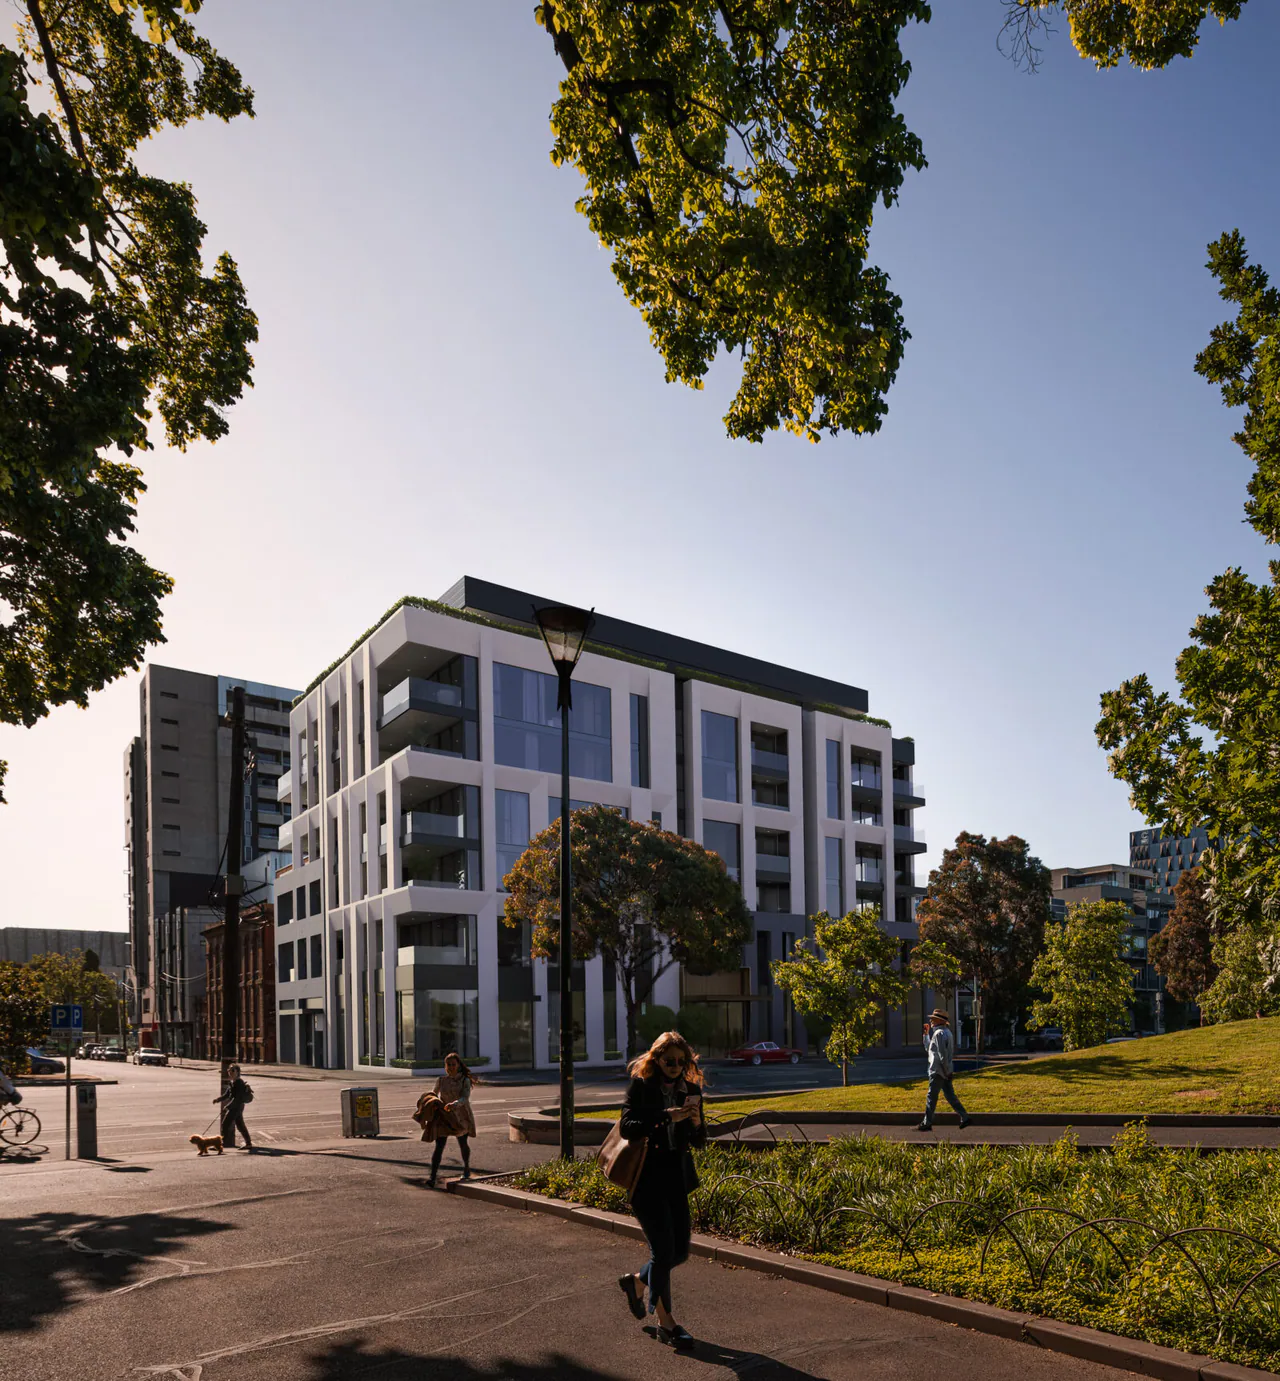
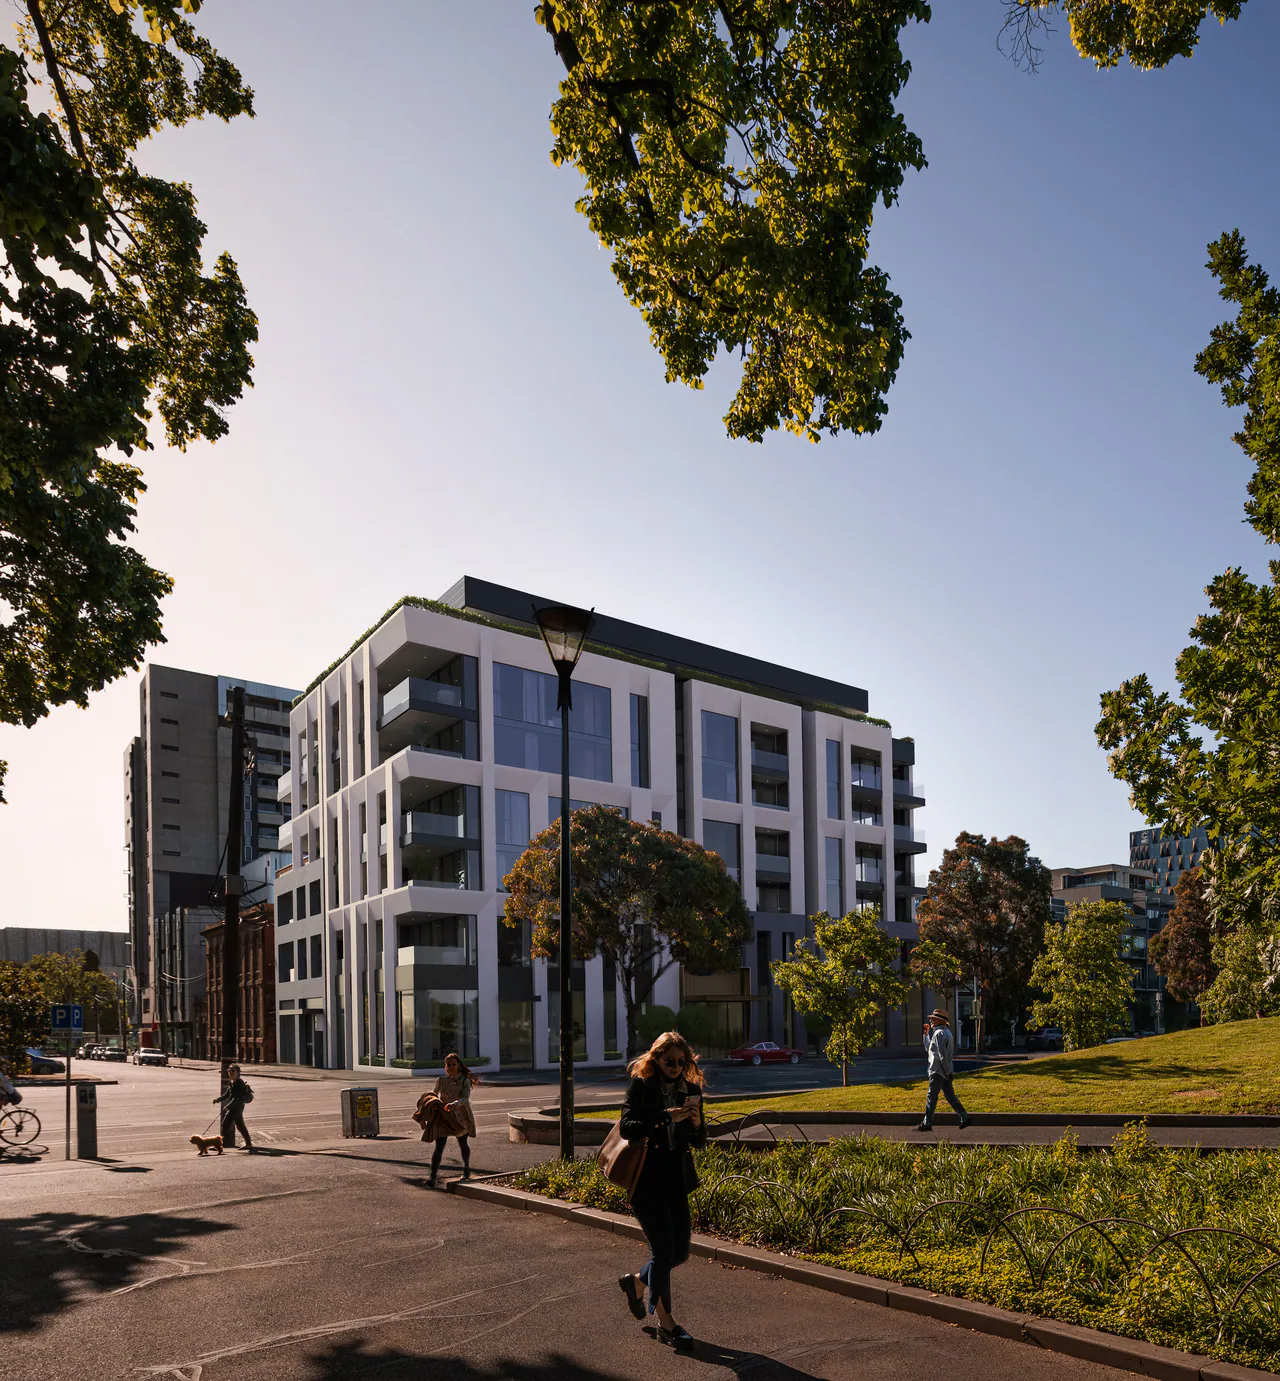
Project pages for all six projects, in The London's layout
La Storia, MVRC – Thomas Street, Sea & Sky, The Lansell and The Righi now open with the
full-screen hero (sliding name, figure boxes) and "About the project" (tall photo, title and
copy, small photo), then the 3D preview. Figures and copy are from each project's published
facts (Sea & Sky's from Camillo's project page); no new numbers.

Photos: full-size originals from camillo.com.au. A project can set `hero.image` when its card
photo isn't big or wide enough (MVRC, The Lansell, The Righi); smaller copies already used in
the gallery and models are replaced by their originals (same optimised names, sharper).

diff --git a/src/data/projects/sea-sky.js b/src/data/projects/sea-sky.js
@@ -17,8 +17,30 @@ export default {
     'A boutique collection capturing the place where the sea meets the sky. A layered façade plays with light and shadow, framing oversized balconies and bay views.',
   materials: 'Italian kitchens, European appliances, stone surfaces.',
   // hero / card photo from project-assets/sea-sky/ (optimised by `npm run images`)
-  image: { file: 'EXT01_Exterior-1600x1702.jpg', position: '50% 42%' },
+  image: { file: 'EXT01_Exterior.jpg', position: '50% 42%' },
   camera: { zoom: 17.1, pitch: 62, bearing: 60 },
+  // the project page (as The London): figures over the hero photo, then "About the project"
+  // (from Camillo's project page)
+  hero: {
+    stats: [
+      { value: '6 levels', label: 'Residential · complete 2023', text: 'A boutique collection in Sandringham Village, at 212 Bay Road.' },
+      { value: '63 + 1', label: 'Apartments & a penthouse', text: 'Two- and three-bedroom homes with generous floorplans.' },
+      { value: 'Snaidero', label: 'Italian kitchens', text: 'With European Miele appliances, stone surfaces and bespoke joinery.' },
+      { value: 'Bay views', label: 'Port Phillip Bay', text: 'Panoramic views of the bay and the glimmer of the city lights.' },
+      { value: 'Artist-led', label: 'Antoinette Ferwerda', text: 'A private art commission shaped the design.' },
+    ],
+  },
+  about: {
+    title: 'Sea & Sky',
+    text: [
+      'Nestled in Sandringham Village, Sea & Sky is a boutique collection of apartments across six levels, an artist-inspired, architectural expression of Sandringham’s coastal character. Bright, spacious interiors extend to large terrace balconies, gardens and private retreats.',
+      'Shaped by a private commission from Australian artist Antoinette Ferwerda, its complex, layered façade lets sunlight and shadow play across its recesses and extrusions through the day. Camillo delivered 63 house-sized dwellings and a luxury penthouse, with Snaidero kitchens and Miele appliances.',
+    ],
+    images: [
+      { file: 'EXT02_Garden.jpg', alt: 'A winding path through the planted courtyard garden at Sea & Sky', position: '50% 50%' },
+      { file: 'SeaSky-lobby.jpg', alt: 'The Sea & Sky lobby, with an artwork at the end of the hall', position: '50% 50%' },
+    ],
+  },
   // published numbers the 3D model must reproduce (checked in dev)
   publishedFacts: { levels: 6, units: 64 },
 };

diff --git a/src/data/gallery.js b/src/data/gallery.js
@@ -9,24 +9,24 @@ export const gallery = [
   { project: 'the-london', file: 'TheLondon.jpeg', alt: 'The London from above, with the Melbourne CBD skyline behind' },
   {
     project: 'la-storia',
-    file: 'DUGA11024_La-Storia_E02_Hero-Cardigan-St_Crop-1600x1726.jpg',
+    file: 'DUGA11024_La-Storia_E02_Hero-Cardigan-St_Crop.jpg',
     alt: 'La Storia seen across the park from Cardigan Street',
   },
   {
     project: 'mvrc-thomas-street',
-    file: '181219_EXTERIOR_PARK-Copy-Large-1200x800.jpeg',
+    file: '181219_EXTERIOR_PARK-Copy-Large.jpeg',
     alt: 'Brick and white-framed townhouses behind a landscaped front garden',
   },
-  { project: 'sea-sky', file: 'EXT02_Garden-800x993.jpg', alt: 'A winding path through the planted courtyard garden at Sea & Sky' },
-  { project: 'la-storia', file: 'IMG_10350_038-1200x800.jpg', alt: 'La Storia at dusk, its windows lit above the street', footer: true },
+  { project: 'sea-sky', file: 'EXT02_Garden.jpg', alt: 'A winding path through the planted courtyard garden at Sea & Sky' },
+  { project: 'la-storia', file: 'IMG_10350_038.jpg', alt: 'La Storia at dusk, its windows lit above the street', footer: true },
   { project: 'the-lansell', file: 'S010-1-Render-Hero-Street.jpeg', alt: 'The Lansell: a glass-fronted upper level among mature trees' },
   {
     project: 'mvrc-thomas-street',
-    file: '191014_B_V03_SOUTHERN_FACADE-Large-800x1000.jpeg',
+    file: '191014_B_V03_SOUTHERN_FACADE-Large.jpeg',
     alt: 'Apartment balconies rising above the gardens on the southern façade',
   },
   { project: 'the-righi', file: '05-Bedroom-Windows.jpg', alt: 'The Righi’s pale stone façade with deep-set windows' },
-  { project: 'sea-sky', file: 'EXT01_Exterior-1600x1702.jpg', alt: 'Sea & Sky’s apartments framing a flowering courtyard' },
+  { project: 'sea-sky', file: 'EXT01_Exterior.jpg', alt: 'Sea & Sky’s apartments framing a flowering courtyard' },
   {
     project: 'mvrc-thomas-street',
     file: '191023_C_V01_HERO-Large.jpeg',

diff --git a/src/data/projects/la-storia.js b/src/data/projects/la-storia.js
@@ -19,4 +19,29 @@ export default {
   // hero / card photo from project-assets/la-storia/ (optimised by `npm run images`)
   image: { file: 'IMG_10058_2_040.jpg', position: '50% 45%' },
   camera: { zoom: 17.3, pitch: 62, bearing: 25 },
+  // the project page (as The London): figures over the hero photo, then "About the project"
+  hero: {
+    stats: [
+      { value: '21 homes', label: 'Three-bedroom residences', text: 'Generous family homes at 88 Pelham Street, Carlton.' },
+      { value: 'From 46', label: 'Apartments, pared back', text: 'The plan was pared back from 46 apartments to 21 homes.' },
+      { value: 'Scarpa', label: 'Design inspiration', text: 'The modernism of Carlo Scarpa, in marble, concrete and handcrafted detail.' },
+      { value: 'Topped out', label: 'Residential', text: 'A monument to Carlton’s Italian heritage.' },
+      { value: 'Solar', label: 'Energy-efficient', text: 'Solar and energy-efficient systems built in.' },
+    ],
+  },
+  about: {
+    title: 'La Storia',
+    text: [
+      'A monument to Carlton’s Italian heritage. The plan was pared back from 46 apartments to 21 generous family homes, flooded with light and air.',
+      'Inspired by the modernism of Carlo Scarpa, the homes are made of marble, concrete and handcrafted joinery, with Smeg, Sub-Zero and Astra Walker appointments and solar, energy-efficient systems.',
+    ],
+    images: [
+      {
+        file: 'DUGA11024_La-Storia_E02_Hero-Cardigan-St_Crop.jpg',
+        alt: 'La Storia seen across the park from Cardigan Street',
+        position: '50% 50%',
+      },
+      { file: 'LaStoria-balcony.jpg', alt: 'A balcony at La Storia looking out to the city skyline', position: '55% 50%' },
+    ],
+  },
 };

diff --git a/src/data/projects/mvrc-thomas-street.js b/src/data/projects/mvrc-thomas-street.js
@@ -18,4 +18,30 @@ export default {
   // hero / card photo from project-assets/mvrc-thomas-street/ (optimised by `npm run images`)
   image: { file: '191023_C_V01_HERO-Large.jpeg', position: '50% 55%' },
   camera: { zoom: 17, pitch: 62, bearing: -60 },
+  // the project page (as The London): figures over the hero photo, then "About the project"
+  hero: {
+    image: { file: 'MVRC-terrace.jpg', position: '50% 60%' },
+    stats: [
+      { value: 'Moonee Valley', label: 'Racecourse precinct', text: 'Part of the Moonee Valley Racecourse precinct renewal.' },
+      { value: 'Generous', label: 'Balconies', text: 'Contemporary apartments opening onto generous balconies.' },
+      { value: 'Bright', label: 'Kitchens', text: 'Bright, practical kitchens.' },
+      { value: 'Rising now', label: 'Under construction', text: 'With a considered lobby to welcome residents home.' },
+      { value: '3 materials', label: 'Façade', text: 'A precast façade with glazing and metal balustrades.' },
+    ],
+  },
+  about: {
+    title: 'MVRC – Thomas Street',
+    text: [
+      'Part of the Moonee Valley Racecourse precinct renewal: contemporary apartments with generous balconies, a considered lobby and bright, practical kitchens.',
+      'Under construction in Moonee Ponds, the building pairs a precast façade with glazing and metal balustrades.',
+    ],
+    images: [
+      {
+        file: '191014_B_V03_SOUTHERN_FACADE-Large.jpeg',
+        alt: 'Apartment balconies rising above the gardens on the southern façade',
+        position: '50% 50%',
+      },
+      { file: 'MVRC-lobby.jpeg', alt: 'The lobby, with a curved timber wall and a pendant light', position: '45% 50%' },
+    ],
+  },
 };

diff --git a/src/data/projects/the-righi.js b/src/data/projects/the-righi.js
@@ -18,4 +18,25 @@ export default {
   // hero / card photo from project-assets/the-righi/ (optimised by `npm run images`)
   image: { file: '05-Bedroom-Windows.jpg', position: '50% 50%' },
   camera: { zoom: 17.8, pitch: 60, bearing: 20 },
+  // the project page (as The London): figures over the hero photo, then "About the project"
+  hero: {
+    image: { file: 'Righi-walkway.jpg', position: '50% 55%' },
+    stats: [
+      { value: 'Landmark', label: 'Luxury residence', text: 'A multi-generational family home in Eaglemont.' },
+      { value: 'Infinity', label: 'Glass-free pool edge', text: 'The pool above lights the basement rumpus below.' },
+      { value: 'Wellness', label: 'Infrared sauna · gym', text: 'A wellness suite and a gymnastics room.' },
+      { value: '2 materials', label: 'Concrete & timber', text: 'Board-formed concrete and warm timber throughout.' },
+    ],
+  },
+  about: {
+    title: 'The Righi',
+    text: [
+      'Camillo’s landmark luxury home: a multi-generational family residence with a basement rumpus lit by the pool above, a gymnastics room, a wellness suite and a formal lounge.',
+      'Built in board-formed concrete and warm timber throughout, with a glass-free infinity-edge pool, an infrared sauna and a gym.',
+    ],
+    images: [
+      { file: 'Righi-courtyard.jpg', alt: 'A courtyard at The Righi between concrete walls and glazing', position: '50% 50%' },
+      { file: 'Righi-living.jpg', alt: 'The living room at The Righi, with a long fireplace', position: '50% 50%' },
+    ],
+  },
 };

diff --git a/src/data/projects/the-lansell.js b/src/data/projects/the-lansell.js
@@ -18,4 +18,25 @@ export default {
   // hero / card photo from project-assets/the-lansell/ (optimised by `npm run images`)
   image: { file: 'S010-1-Render-Hero-Street.jpeg', position: '45% 55%' },
   camera: { zoom: 17.4, pitch: 60, bearing: -15 },
+  // the project page (as The London): figures over the hero photo, then "About the project"
+  hero: {
+    image: { file: 'Lansell-garden.jpg', position: '50% 55%' },
+    stats: [
+      { value: 'Toorak', label: 'Under construction', text: 'On one of Toorak’s most prestigious streets.' },
+      { value: 'Private', label: 'Lobbies', text: 'Private and common lobbies.' },
+      { value: 'Gardens', label: 'Interior landscape', text: 'Landscaped interior gardens and courts.' },
+      { value: 'Boutique', label: 'Residential building', text: 'Quiet luxury in refined masonry and glazing.' },
+    ],
+  },
+  about: {
+    title: 'The Lansell',
+    text: [
+      'Quiet luxury on one of Toorak’s most prestigious streets: a boutique residential building arranged around private lobbies and landscaped interior gardens.',
+      'Refined masonry and glazing frame its landscaped courts, with private and common lobbies.',
+    ],
+    images: [
+      { file: 'Lansell-private-lobby.jpg', alt: 'A private lobby at The Lansell, with an arched glass door', position: '50% 50%' },
+      { file: 'Lansell-common-lobby.jpeg', alt: 'The common lobby: two armchairs before a timber-panelled wall', position: '50% 50%' },
+    ],
+  },
 };

diff --git a/vite-plugins/site-data.js b/vite-plugins/site-data.js
@@ -99,6 +99,8 @@ function decorateProject(p, i, all, srcDir, prefix) {
   return {
     ...p,
     photo: photo(srcDir, { project: p.slug, ...p.image, alt: `${p.name}, ${p.suburb}` }, prefix),
+    // the project page's hero: its own photo when the card's isn't big or wide enough
+    heroPhoto: photo(srcDir, { project: p.slug, ...(p.hero?.image ?? p.image), alt: `${p.name}, ${p.suburb}` }, prefix),
     ...(p.about && { about: { ...p.about, photos: p.about.images.map((img) => photo(srcDir, { project: p.slug, ...img }, prefix)) } }),
     keyFacts: p.facts.slice(0, 2).map(([label, value]) => ({ label, value })),
     side: i % 2 === 0 ? 'left' : 'right', // chapters alternate sides for rhythm

diff --git a/src/pages/project/hero.html b/src/pages/project/hero.html
@@ -7,11 +7,11 @@
   <div class="phero__media">
     <img
       class="phero__img"
-      src="{{ project.photo.src }}"
-      srcset="{{ project.photo.srcset }}"
+      src="{{ project.heroPhoto.src }}"
+      srcset="{{ project.heroPhoto.srcset }}"
       sizes="max(100vw, 178vh)"
-      alt="{{ project.photo.alt }}"
-      style="object-position: {{ project.photo.position }}"
+      alt="{{ project.heroPhoto.alt }}"
+      style="object-position: {{ project.heroPhoto.position }}"
       fetchpriority="high"
     />
   </div>

diff --git a/README.md b/README.md
@@ -140,7 +140,7 @@ The form is a [Netlify form](https://docs.netlify.com/forms/setup/) (`name="enqu
 
 ## Project page hero
 
-A project with `hero` in its data (so far `the-london.js`) gets a full-screen hero on its page ([`src/pages/project/hero.html`](src/pages/project/hero.html), `hero.css`, `hero.js`). The project photo holds still while you scroll. First the project's name rises over it in one giant line that runs sideways like a marquee (a compositor animation, so it keeps its pace however busy the page is; scrolling either way speeds it up for a moment, and it pauses off screen), then the key figures scroll up over the photo in staggered white boxes (`hero.stats`: a big `value`, a maroon `label`, a line of `text`). The small type on the first screen (back link, suburb, "Scroll", type · status) fades as soon as the page moves, and the header, white over the photo at the very top, switches to its light bar on the first scroll, so the name and boxes pass under it cleanly. Projects without `hero` keep the plain page header.
+Every project has `hero` in its data, so every project page opens with a full-screen hero ([`src/pages/project/hero.html`](src/pages/project/hero.html), `hero.css`, `hero.js`). The project photo (`hero.image` when the card photo, `image`, isn't big or wide enough for a full screen) holds still while you scroll. First the project's name rises over it in one giant line that runs sideways like a marquee (a compositor animation, so it keeps its pace however busy the page is; scrolling either way speeds it up for a moment, and it pauses off screen), then the key figures scroll up over the photo in staggered white boxes (`hero.stats`: a big `value`, a maroon `label`, a line of `text`). The small type on the first screen (back link, suburb, "Scroll", type · status) fades as soon as the page moves, and the header, white over the photo at the very top, switches to its light bar on the first scroll, so the name and boxes pass under it cleanly. A project without `hero` would keep the plain page header. All figures and copy come from the published facts in each data file and Camillo's project pages; photos are the full-size originals from camillo.com.au, in `project-assets/<slug>/`.
 
 A project with `about` in its data gets an **About the project** section after it ([`about.html`](src/pages/project/about.html), `about.css`, `about.js`): a tall photo on the left, a big uppercase `about.title` with the `about.text` paragraphs in small capitals on the right, and a small second photo low in the right corner (`about.images`, two photos from `project-assets/<slug>/`; run `npm run images` after adding them). The copy rises in once and the photos drift slightly on scroll. Then come the facts, in a row, and the 3D explorer. To give another project the hero, add a `hero.stats` list to its data file (keep the figures to published facts). With reduced motion the name and boxes don't move.
 
